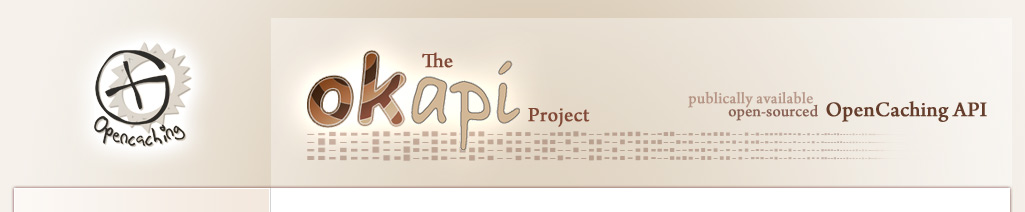
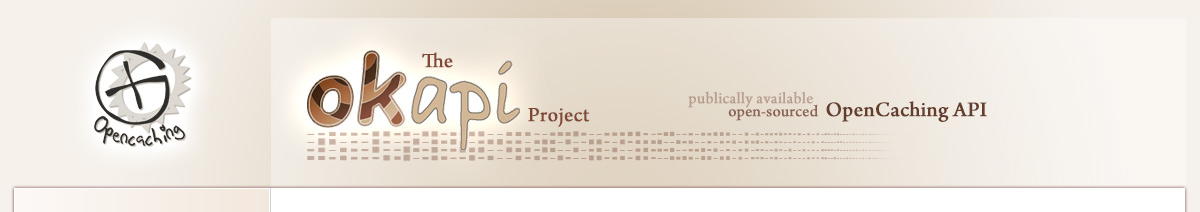
Make the page canvas wider (1025->1200)

diff --git a/okapi/static/common.css b/okapi/static/common.css
@@ -6,10 +6,10 @@ a { cursor: pointer; }
 span.note { color: #888; font-size: 70%; font-weight: normal; }
 
 body.api { background: #f5f1eb; }
-.okd_mid { width: 1025px; margin: 0 auto; background: url(middle.gif) #f5f1eb; background-position: top center; background-repeat: repeat-y; }
-.okd_top { width: 1025px; margin: 0 auto; background: url(top.jpg); background-position: top center; background-repeat: no-repeat; }
-.okd_top_pad { height: 230px; width: 1025px; }
-.okd_bottom { width: 1025px; height: 64px; margin: 0 auto; background: url(bottom.gif); background-position: top center; background-repeat: no-repeat; }
+.okd_mid { width: 1200px; margin: 0 auto; background: url(middle.gif?v2) #f5f1eb; background-position: top center; background-repeat: repeat-y; }
+.okd_top { width: 1200px; margin: 0 auto; background: url(top.jpg?v2); background-position: top center; background-repeat: no-repeat; }
+.okd_top_pad { height: 230px; width: 1200px; }
+.okd_bottom { width: 1200px; height: 64px; margin: 0 auto; background: url(bottom.gif?v2); background-position: top center; background-repeat: no-repeat; }
 .okd_switcher { text-align: right; padding: 30px 30px 0 0; font-size: 11px; color: #888; }
 .okd_switcher select { border: 1px solid #bbb; padding: 2px; font-size: 12px; }
 
